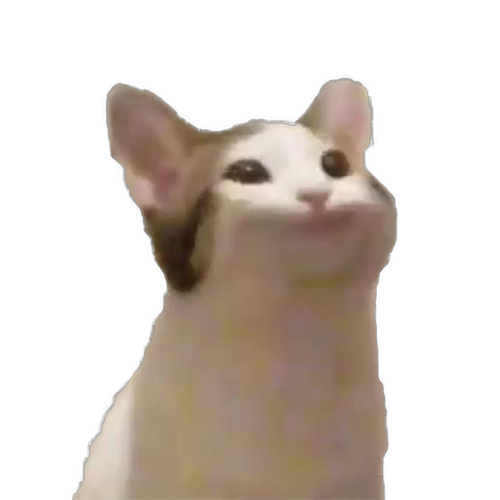
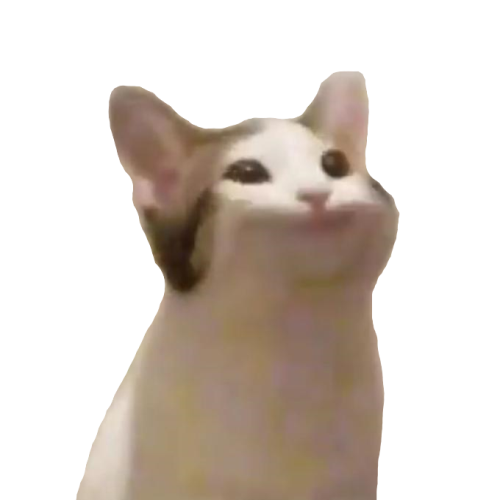
Change to use SoundPlayer
Changed MediaPlayer to SoundPlayer.
Made resources to be embedded.
Set background color to black.
Deleted unused files.

diff --git a/PopCat/MainWindow.xaml b/PopCat/MainWindow.xaml
@@ -5,6 +5,6 @@
         xmlns:mc="http://schemas.openxmlformats.org/markup-compatibility/2006"
         xmlns:local="clr-namespace:PopCat"
         mc:Ignorable="d"
-        Title="Pop Cat" Height="500" Width="500" ResizeMode="NoResize" WindowStartupLocation="CenterScreen">
+        Title="Pop Cat" Height="500" Width="500" ResizeMode="NoResize" WindowStartupLocation="CenterScreen" Background="Black">
     <Image x:Name="image" Stretch="Fill" Source="pack://siteoforigin:,,,/Resources/popcat1.png"></Image>
 </Window>

diff --git a/PopCat/MainWindow.xaml.cs b/PopCat/MainWindow.xaml.cs
@@ -27,13 +27,12 @@ namespace PopCat
             ImageSource popcat1 = Imaging.CreateBitmapSourceFromHBitmap(Properties.Resources.popcat1.GetHbitmap(), IntPtr.Zero, Int32Rect.Empty, BitmapSizeOptions.FromEmptyOptions());
             ImageSource popcat2 = Imaging.CreateBitmapSourceFromHBitmap(Properties.Resources.popcat2.GetHbitmap(), IntPtr.Zero, Int32Rect.Empty, BitmapSizeOptions.FromEmptyOptions());
 
-            MediaPlayer pop = new MediaPlayer();
-            pop.Open(new Uri("pack://siteoforigin:,,,/Resources/pop.wav"));
+            SoundPlayer pop = new SoundPlayer(Properties.Resources.pop);
+            pop.LoadAsync();
 
             MouseLeftButtonDown += (object sender, MouseButtonEventArgs args) =>
             {
                 image.Source = popcat2;
-                pop.Position = TimeSpan.Zero;
                 pop.Play();
             };
             MouseLeftButtonUp += (object sender, MouseButtonEventArgs args) =>
